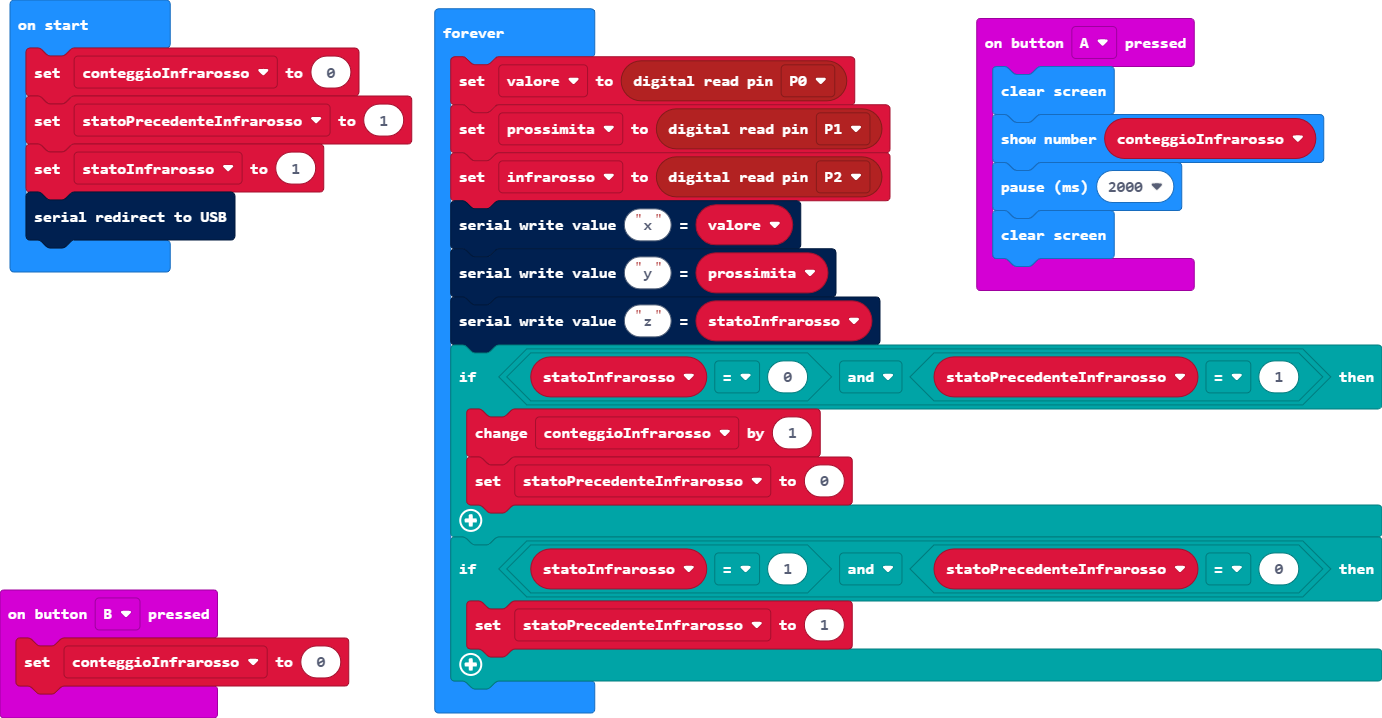
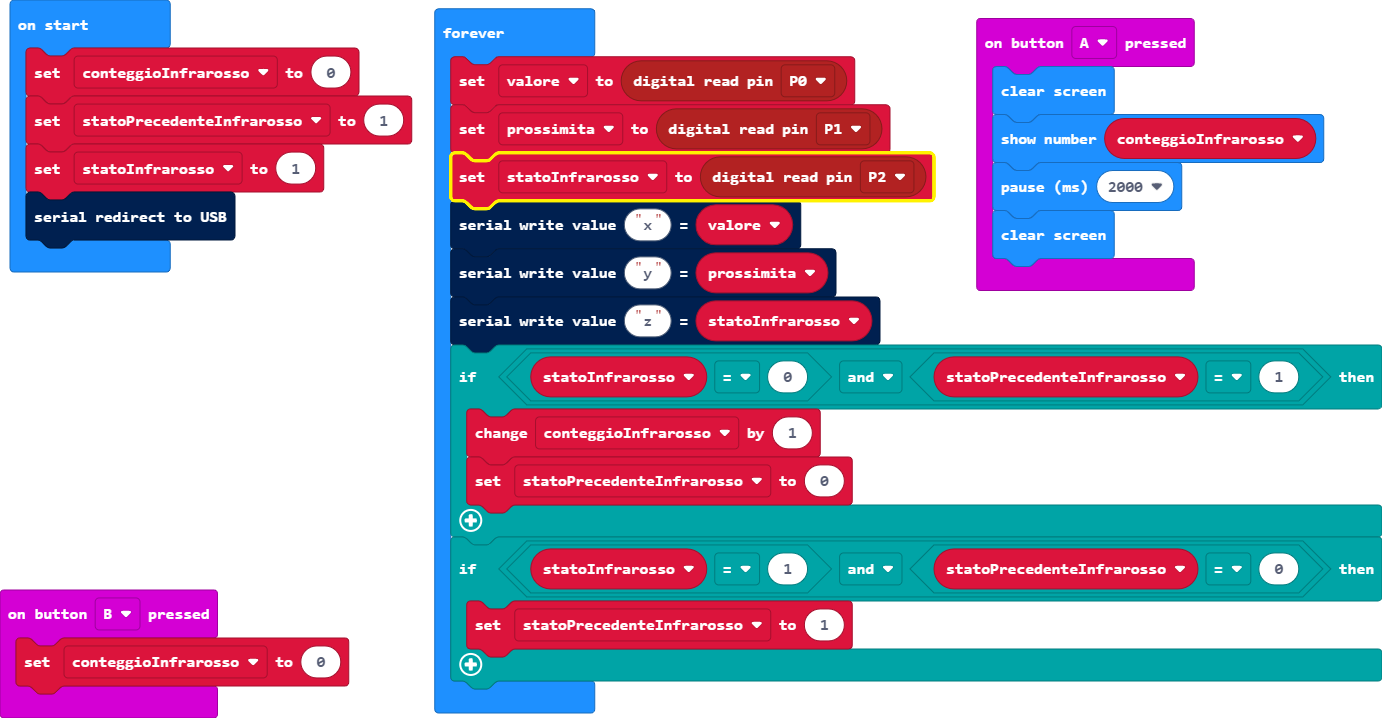
Update main.blocks, main.ts

Changed region(s): [[0.3111, 0.1838, 0.6845, 0.3064]]

diff --git a/main.ts b/main.ts
@@ -7,7 +7,6 @@ input.onButtonPressed(Button.A, function () {
 input.onButtonPressed(Button.B, function () {
     conteggioInfrarosso = 0
 })
-let infrarosso = 0
 let prossimita = 0
 let valore = 0
 let conteggioInfrarosso = 0
@@ -18,7 +17,7 @@ serial.redirectToUSB()
 basic.forever(function () {
     valore = pins.digitalReadPin(DigitalPin.P0)
     prossimita = pins.digitalReadPin(DigitalPin.P1)
-    infrarosso = pins.digitalReadPin(DigitalPin.P2)
+    statoInfrarosso = pins.digitalReadPin(DigitalPin.P2)
     serial.writeValue("x", valore)
     serial.writeValue("y", prossimita)
     serial.writeValue("z", statoInfrarosso)
